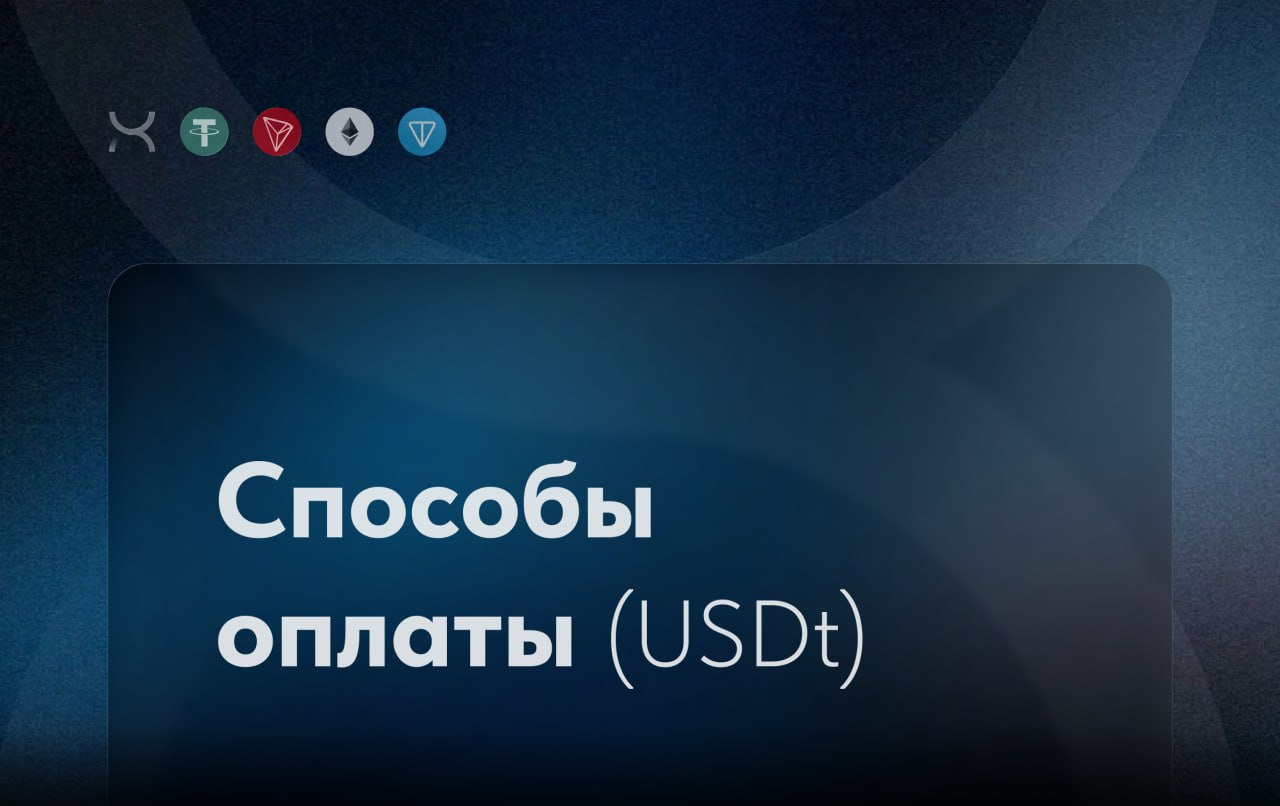
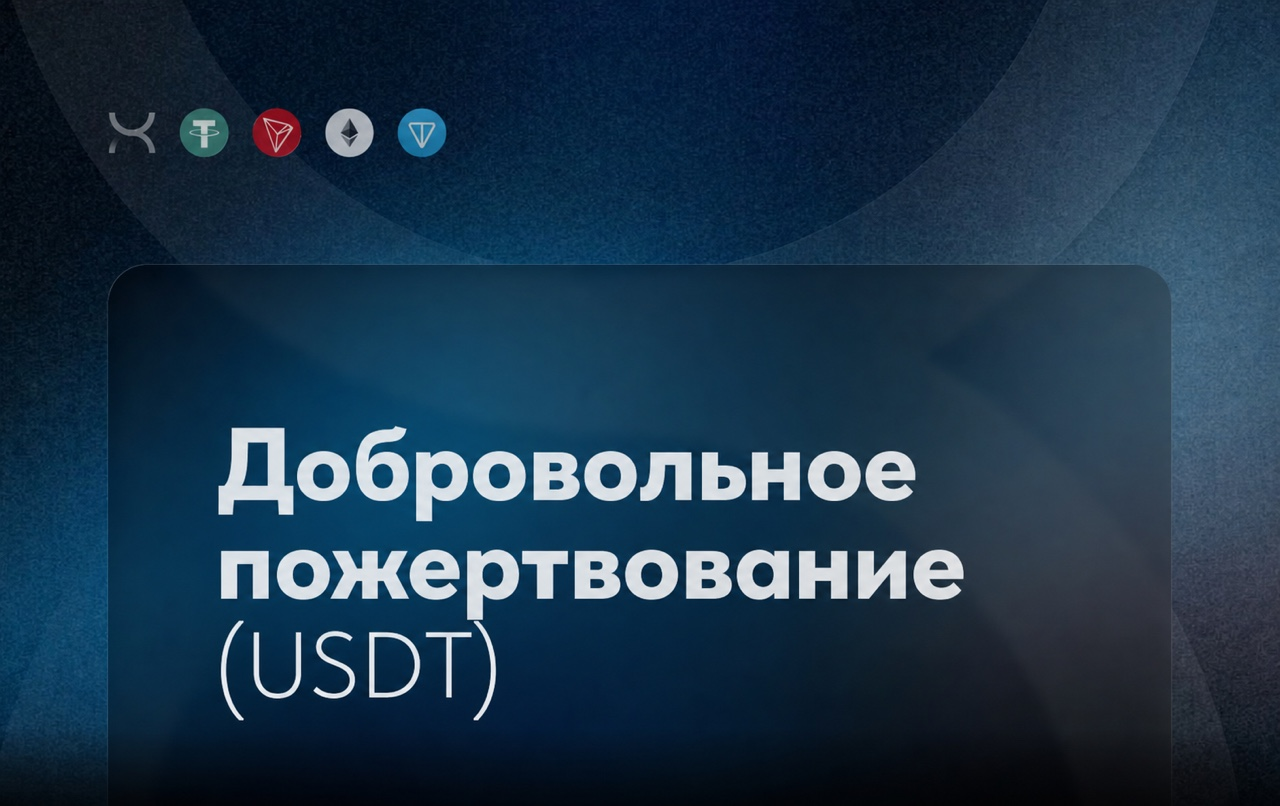
feat: reword old bot payment flow as donations

diff --git a/src/bot.ts b/src/bot.ts
@@ -493,7 +493,10 @@ ${sundayInvite.invite_link}
 
         if (parsed.a === 'reject') {
           try {
-            await ctx.api.sendMessage(targetUserId, '❌ Оплата отклонена. Свяжитесь с поддержкой.')
+            await ctx.api.sendMessage(
+              targetUserId,
+              '❌ Добровольное пожертвование не подтверждено. Свяжитесь с поддержкой.'
+            )
             await ctx.api.editMessageCaption(String(ADMIN_GROUP_ID), message.message_id, {
               caption: `${caption}\n\n❌ Отклонено`,
             })
@@ -569,7 +572,7 @@ ${sundayInvite.invite_link}
     //   return
     // }
 
-    // Обычная навигация + оплата
+    // Обычная навигация + добровольное пожертвование
     if (parsed.a === 'open' && parsed.s) {
       goTo(userId, parsed.s)
       await renderScreen(ctx, userId, parsed.s, parsed.p)
@@ -647,7 +650,7 @@ ${sundayInvite.invite_link}
       }
 
       if (parsed.m === 'mastercard') {
-        // сразу на оплату
+        // сразу к добровольному пожертвованию
         goTo(userId, 'rub_payment')
         await renderScreen(ctx, userId, 'rub_payment', ctx.session.payment)
       } else {
@@ -694,7 +697,7 @@ ${sundayInvite.invite_link}
     if (parsed.a === 'paid') {
       await ctx.editMessageCaption({
         caption:
-          '📸 Отлично! Теперь пришли фото чека (или документ) в этот чат.\nЯ сразу передам админу.',
+          '📸 Отлично! Теперь пришлите подтверждение перевода (фото или документ) в этот чат.\nЯ сразу передам его администратору.',
         reply_markup: new InlineKeyboard().text('Отмена', packCb({ a: 'back' })),
         parse_mode: 'Markdown',
       })
@@ -825,7 +828,7 @@ ${sundayInvite.invite_link}
     }
   })
 
-  // ========== ЧЕК (фото / документ) — ВЫСОКИЙ ПРИОРИТЕТ===========
+  // ========== ПОДТВЕРЖДЕНИЕ ПЕРЕВОДА — ВЫСОКИЙ ПРИОРИТЕТ===========
   bot.on(['message:photo', 'message:document'], async (ctx) => {
     if (ctx.session.waitingForReceipt) {
       ctx.session.waitingForReceipt = false
@@ -900,7 +903,7 @@ ${sundayInvite.invite_link}
         : 'не указано'
       const adminText = `
 
-💰 *НОВАЯ ОПЛАТА*
+💰 *НОВОЕ ДОБРОВОЛЬНОЕ ПОЖЕРТВОВАНИЕ*
 ${productText}
 
 👤 ${profile.fio || 'не указано'}
@@ -909,7 +912,7 @@ ${productText}
 
 ${ctx.session.payment?.product === 'volunteer' ? 'TYPE:VOLUNTEER' : 'TYPE:CONTENT'}
 
-💳 Способ оплаты: ${methodText}
+💳 Способ перевода: ${methodText}
 ${volunteerText}
 
 🕒 ${new Date().toLocaleString('ru-RU')}
@@ -919,7 +922,10 @@ ${volunteerText}
 
       let threadId: number | undefined
       try {
-        const topic = await ctx.api.createForumTopic(ADMIN_GROUP_ID, `Новый заказ — ${username}`)
+        const topic = await ctx.api.createForumTopic(
+          ADMIN_GROUP_ID,
+          `Новое пожертвование — ${username}`
+        )
         threadId = topic.message_thread_id
       } catch (err) {
         console.error('Ошибка создания темы:', err)
@@ -949,19 +955,19 @@ ${volunteerText}
         }
 
         await ctx.reply(
-          '✅ Чек успешно отправлен администратору!\nОжидай подтверждения \nЧтобы вернуться в главное меню - нажми /main',
+          '✅ Подтверждение перевода отправлено администратору!\nОжидайте проверки.\nЧтобы вернуться в главное меню, нажмите /main',
           {
             parse_mode: 'Markdown',
           }
         )
       } catch (err) {
-        console.error('Ошибка отправки чека:', err)
-        await ctx.reply('❌ Не удалось отправить чек.')
+        console.error('Ошибка отправки подтверждения перевода:', err)
+        await ctx.reply('❌ Не удалось отправить подтверждение перевода.')
       }
       return
     }
 
-    // Если не чек — проверяем поддержку
+    // Если это не подтверждение перевода — проверяем поддержку
     if (ctx.session.inSupportMode) {
       let threadId = ctx.session.supportThreadId
       if (!threadId) {
@@ -1018,9 +1024,11 @@ ${volunteerText}
       volunteerId: volunteerTelegramId,
     }
 
-    await ctx.reply(`✅ Волонтёр выбран: ${volunteer.fio || 'Без имени'}\n\nПереходим к оплате...`)
+    await ctx.reply(
+      `✅ Волонтёр выбран: ${volunteer.fio || 'Без имени'}\n\nПереходим к добровольному пожертвованию...`
+    )
 
-    // 👉 переход в оплату
+    // Переход к добровольному пожертвованию
     goTo(ctx.from.id, 'payment')
     await renderScreen(ctx, ctx.from.id, 'payment', undefined, { forceNew: true })
   })

diff --git a/src/screens/payment-detail.ts b/src/screens/payment-detail.ts
@@ -6,25 +6,20 @@ import type { ScreenView } from '../core/render.js'
 
 const PAGES = [
   `1/5\n\n` +
-    `Администрация ХАБа вам очень признательна, если вы сможете оплатить именно криптовалютой, так как эти переводы привлекают меньше внимания банковских работников к нашим системам / помогают избежать проверок и блокировок по 115-ФЗ, а также налоговых издержек.`,
+    `Добровольные пожертвования помогают ХАБу поддерживать цифровые подписки, закрытые чаты и работу сервиса.`,
 
   `2/5\n\n` +
-    `В связи с вышеизложенным уведомляем вас о том, что при переводе в USDT вы сможете значительно сэкономить на покупке подписки.`,
+    `Поддержать проект можно рублёвым переводом или переводом в USDT. Выберите удобный для вас способ.`,
 
   `3/5\n\n` +
-    `Если вы совершаете самостоятельную покупку USDT на любой бирже через P2P (даже с учётом комиссий за перевод), такая покупка выйдет выгоднее.\n\n` +
-    `Пример:\n` +
-    `подписка через ХАБ стоит 40$ + 18% комиссии системы за перевод × 80₽ (или иной курс) = примерно 3280₽`,
+    `При переводе в USDT учитывайте комиссию биржи и выбранной сети. Сумма, которая поступит на кошелёк ХАБа, должна соответствовать рекомендуемому размеру пожертвования.`,
 
   `4/5\n\n` +
-    ` Если вы совершаете самостоятельную покупку USDt на любой бирже через Р2Р то даже с учетом всех комиссий за перевод, такая покупка выйдет выгоднее.
-
-Например:
-подписка через ХАБ стоит 40$ + 1$ (комиссия системы за перевод) х 80₽ (или иная стоимость по актуальному курсу Р2Р рынка за USDt) получаем стоимость в рублях = 3280₽`,
+    `Рекомендуемый размер пожертвования зависит от выбранного продукта. Актуальная сумма будет указана перед переводом.`,
 
   `5/5\n\n` +
-    `Выбирайте удобный способ и пишите админу в случае вопросов.\n` +
-    `Мы всегда на связи и поможем с оплатой максимально выгодно и безопасно.`,
+    `После перевода нажмите «Я отправил(а)» и приложите подтверждение. Администратор проверит поступление и активирует доступ.\n\n` +
+    `Если появятся вопросы, напишите администратору.`,
 ]
 
 const TOTAL_PAGES = PAGES.length
@@ -44,16 +39,16 @@ export function paymentDetailsScreen(userId: number, params?: { page: number }):
 
   kb.row()
 
-  // Кнопка "Назад к оплате" появляется ТОЛЬКО на последней странице
+  // Кнопка возврата появляется только на последней странице
   if (page === TOTAL_PAGES) {
-    kb.text('НАЗАД К ОПЛАТЕ', packCb({ a: 'open', s: 'about_payment' })).row()
+    kb.text('НАЗАД К ПОЖЕРТВОВАНИЮ', packCb({ a: 'open', s: 'about_payment' })).row()
   }
 
   kb.text('НА ГЛАВНУЮ', packCb({ a: 'home' })).icon('5465226866321268133')
 
   return {
     photo: './public/about-payment.png',
-    caption: `*ПОДРОБНОСТИ ОБ ОПЛАТЕ*\n\n${PAGES[page - 1]}\n\n`,
+    caption: `*О ДОБРОВОЛЬНОМ ПОЖЕРТВОВАНИИ*\n\n${PAGES[page - 1]}\n\n`,
     keyboard: kb,
   }
 }

diff --git a/src/screens/legal.ts b/src/screens/legal.ts
@@ -15,12 +15,13 @@ export function legalScreen(userId: number): ScreenView {
     photo: './public/legal.jpg',
     caption:
       `Вся информация в боте носит справочный характер и не является публичной офертой.\n\n` +
-      `ХАБ предоставляет посреднические услуги по доступу к цифровым подпискам и контенту, которые могут быть недоступны напрямую из РФ (в т.ч. из-за ограничений платёжных систем и региональных блокировок).\n\n` +
+      `ХАБ помогает участникам с доступом к цифровым подпискам и контенту, которые могут быть недоступны напрямую из РФ из-за региональных ограничений.\n\n` +
+      `Работа проекта поддерживается добровольными пожертвованиями участников.\n\n` +
       `Мы не являемся официальными партнёрами или дистрибьюторами (ProPresenter, ProContent и др.).\n` +
-      `Вы также осознаёте, что приобретение подписок *«в складчину»* может нарушать лицензионные соглашения.\n` +
+      `Вы также осознаёте, что совместное использование подписок *«в складчину»* может нарушать лицензионные соглашения.\n` +
       `Все действия вы совершаете на свой страх и риск.\n\n` +
       `\n` +
-      `*Оплата услуг означает ваше согласие с условиями и отказ от претензий в случае:*\n\n` +
+      `*Отправляя добровольное пожертвование и используя сервис, вы подтверждаете согласие с условиями и принимаете следующие риски:*\n\n` +
       `• блокировки аккаунта/потока\n` +
       `• изменения условий сервисов\n` +
       `• технических проблем со стороны разработчика\n\n` +

diff --git a/src/screens/others.ts b/src/screens/others.ts
@@ -14,13 +14,13 @@ export function otherScreen(userId: number): ScreenView {
   return {
     photo: './public/others.jpg',
     caption:
-      `Если вам нужна любая другая цифровая подписка или сервис, который недоступен в РФ (например, через прямую оплату из России заблокирован), мы поможем!\n\n` +
-      `Через ХАБ вы можете оплатить:\n` +
+      `Если вам нужна цифровая подписка или сервис, самостоятельное подключение которого недоступно из РФ, мы постараемся помочь!\n\n` +
+      `Через ХАБ можно получить помощь с доступом к:\n` +
       `• Любые премиум-сервисы (программы, облака, библиотеки контента и т.д.)\n` +
       `• Доступ к аккаунтам, потокам, лицензиям\n` +
       `• Всё, что связано с worship, музыкой, видео, софтом для церквей\n\n` +
-      `Просто напишите админу в чат — обсудим детали, стоимость и сроки.\n` +
-      `Мы подберём оптимальный способ оплаты и предоставим доступ на ваш аккаунт.\n\n` +
+      `Напишите администратору в чат — обсудим детали, рекомендуемый размер пожертвования и сроки.\n` +
+      `Мы подберём удобный способ перевода и поможем настроить доступ на вашем аккаунте.\n\n` +
       `Готовы помочь — жмите кнопку ниже!`,
 
     keyboard: kb,

diff --git a/src/screens/payment.ts b/src/screens/payment.ts
@@ -47,7 +47,9 @@ export function paymentScreen(userId: number, params: any, ctx: any): ScreenView
 
   // Цена
   const price = PRODUCT_PRICES[product]
-  const priceText = price ? `Стоимость: *${price} ₽/год*` : 'Стоимость: по договорённости с админом'
+  const donationText = price
+    ? `Рекомендуемая сумма пожертвования: *${price} ₽*`
+    : 'Рекомендуемый размер пожертвования уточните у администратора'
 
   const kb = new InlineKeyboard()
 
@@ -56,7 +58,7 @@ export function paymentScreen(userId: number, params: any, ctx: any): ScreenView
     .icon('5460978422111021593')
     .row()
   kb.row()
-  kb.text('Подробности об оплате', packCb({ a: 'open', s: 'payment_details', p: { page: 1 } }))
+  kb.text('О ПОЖЕРТВОВАНИИ', packCb({ a: 'open', s: 'payment_details', p: { page: 1 } }))
     .icon('5787544344906959608')
     .row()
   kb.row()
@@ -67,11 +69,11 @@ export function paymentScreen(userId: number, params: any, ctx: any): ScreenView
   return {
     photo: './public/payment.png',
     caption:
-      `*${isExtension ? 'ПРОДЛЕНИЕ' : 'ОПЛАТА'} — ${productName.toUpperCase()}*\n\n` +
+      `*ДОБРОВОЛЬНОЕ ПОЖЕРТВОВАНИЕ — ${productName.toUpperCase()}*\n\n` +
       `Вы выбрали: ${productName}${extraInfo}\n` +
-      `${priceText}\n` +
+      `${donationText}\n` +
       `${extensionInfo}\n` +
-      `Вы можете оплатить:\n` +
+      `Поддержать проект можно переводом:\n` +
       `• Рублёвый перевод\n` +
       `• Криптовалютный перевод в USDT (предпочтительнее)\n\n` +
       `Выберите способ ниже:`,

diff --git a/src/services/reminder.service.ts b/src/services/reminder.service.ts
@@ -71,8 +71,8 @@ export async function runReminders(bot: Bot) {
 
         const text =
           daysLeft === 1
-            ? `⚠ *Подписка заканчивается завтра!*\n\n❗ Если не продлить — вы будете удалены из группы.\n\n👉 Продлите сейчас`
-            : `⏳ *Контент для экранов*\n\nОсталось ${daysLeft} дней\n\n👉Чтобы продлить зайдите в /profile`
+            ? `⚠ *Подписка заканчивается завтра!*\n\n❗ Чтобы поддержать проект и продлить доступ, зайдите в /profile`
+            : `⏳ *Контент для экранов*\n\nОсталось ${daysLeft} дней\n\n👉 Чтобы поддержать проект и продлить доступ, зайдите в /profile`
 
         await sendReminder({ bot, user, key, text })
       }
@@ -123,7 +123,7 @@ async function kickUser(bot: Bot, user: any, chatId: number) {
     await bot.api.unbanChatMember(chatId, user.telegramId)
     await bot.api.sendMessage(
       user.telegramId,
-      '❌ Ваша подписка закончилась. Вы были удалены из группы. \n\n👉 Чтобы восстановить доступ, продлите подписку в /profile'
+      '❌ Ваша подписка закончилась. Вы были удалены из группы.\n\n👉 Чтобы поддержать проект и восстановить доступ, зайдите в /profile'
     )
 
     console.log(`🚫 Кикнут пользователь ${user.telegramId}`)

diff --git a/src/screens/rub-payment.ts b/src/screens/rub-payment.ts
@@ -7,7 +7,7 @@ import { PRODUCT_PRICES } from './payment.js'
 export function rubPaymentScreen(userId: number, params?: any): ScreenView {
   const kb = new InlineKeyboard()
 
-  kb.text('Я ОПЛАТИЛ(А)', packCb({ a: 'paid' }))
+  kb.text('Я ОТПРАВИЛ(А)', packCb({ a: 'paid' }))
     .icon('5317013291602553603')
     .row()
 
@@ -51,7 +51,7 @@ export function rubPaymentScreen(userId: number, params?: any): ScreenView {
   if (!params) {
     return {
       photo: './public/methods-rub.jpg',
-      caption: 'Ошибка: данные оплаты не найдены',
+      caption: 'Ошибка: данные перевода не найдены',
       keyboard: new InlineKeyboard().text('Назад', packCb({ a: 'back' })),
     }
   }
@@ -62,12 +62,12 @@ export function rubPaymentScreen(userId: number, params?: any): ScreenView {
   return {
     photo: './public/methods-rub.jpg',
     caption:
-      `*ОПЛАТА — РУБЛИ*\n\n` +
+      `*ДОБРОВОЛЬНОЕ ПОЖЕРТВОВАНИЕ — РУБЛИ*\n\n` +
       `Способ: **${methodText}**\n\n` +
-      `Сумма: **${amount}**\n\n` +
+      `Рекомендуемая сумма: **${amount}**\n\n` +
       `Реквизиты:\n\`\`\`\n${details}\n\`\`\`\n\n` +
       `Получатель: ${config.PAYMENT_RECEIVER_NAME}\n\n` +
-      `После перевода нажмите "Я ОПЛАТИЛ(А)"`,
+      `После перевода нажмите «Я ОТПРАВИЛ(А)»`,
 
     keyboard: kb,
   }

diff --git a/src/screens/about-payment.ts b/src/screens/about-payment.ts
@@ -7,13 +7,13 @@ import type { ScreenView } from '../core/render.js'
 export function aboutPaymentScreen(userId: number): ScreenView {
   const kb = new InlineKeyboard()
 
-  kb.text('ПРИОБРЕСТИ ПОДПИСКУ ', packCb({ a: 'open', s: 'add_subscription' }))
+  kb.text('ВЫБРАТЬ ПОДПИСКУ', packCb({ a: 'open', s: 'add_subscription' }))
     .icon('5310257187786878602')
     .row()
 
   kb.row()
 
-  kb.text('ПОДРОБНЕЕ ОБ ОПЛАТЕ ', packCb({ a: 'open', s: 'payment_details', p: { page: 1 } }))
+  kb.text('ПОДРОБНЕЕ', packCb({ a: 'open', s: 'payment_details', p: { page: 1 } }))
     .icon('5215209935188534658')
 
     .row()
@@ -24,7 +24,7 @@ export function aboutPaymentScreen(userId: number): ScreenView {
   return {
     photo: './public/about-payment.png', // зелёный скрин из твоей папки
     caption:
-      `Вы можете совершить оплату вашей подписки или подписки любого другого продукта ХАБа несколькими способами:\n\n` +
+      `Вы можете поддержать работу ХАБа добровольным пожертвованием одним из способов:\n\n` +
       `• Рублёвый перевод\n` +
       `• Криптовалютный перевод в USDT (предпочтительнее)\n\n` +
       `Выберите способ ниже:`,

diff --git a/src/screens/propresenter.ts b/src/screens/propresenter.ts
@@ -12,7 +12,7 @@ export function propresenterScreen(userId: number): ScreenView {
     .url('ОСТАЛИСЬ ВОПРОСЫ?', 'https://t.me/hubbbhelp_bot')
     .icon('5436113877181941026')
     .row()
-  // kb.text('Оплатить', packCb({ a: 'pay_product', p: 'propresenter' }))
+  // kb.text('Поддержать проект', packCb({ a: 'pay_product', p: 'propresenter' }))
   //   .icon('5318912792428814144')
   //   .row()
   kb.row()
@@ -24,7 +24,7 @@ export function propresenterScreen(userId: number): ScreenView {
       `*ProPresenter*— профессиональная программа для управления слайдами, видео, текстом и worship-контентом в церквях.\n\n` +
       `*Основные возможности описаны на*` +
       `[ сайте разработчика](https://www.renewedvision.com/propresenter)\n\n` +
-      `💰 *Стоимость "в складчину" через ХАБ:40$/год*\n` +
+      `💰 *Рекомендуемое пожертвование через ХАБ: 40$/год*\n` +
       `или от 3750₽/год (в зависимости от курса USDT на P2P)\n\n` +
       `📡 *Доступ через приватный ПОТОК:*\n\n` +
       `➕ *Выберите действие ниже:*`,

diff --git a/src/screens/sunday-screens.ts b/src/screens/sunday-screens.ts
@@ -10,7 +10,7 @@ export function SundayScreensScreen(userId: number): ScreenView {
   kb.text('Чаво по продукту', packCb({ a: 'open', s: 'faq_sunday_screens' }))
     .icon('5436113877181941026')
     .row()
-  kb.text('Оплатить', packCb({ a: 'pay_product', p: 'sunday_screens' }))
+  kb.text('Поддержать проект', packCb({ a: 'pay_product', p: 'sunday_screens' }))
     .icon('5318912792428814144')
     .row()
   kb.row()
@@ -26,7 +26,7 @@ export function SundayScreensScreen(userId: number): ScreenView {
       `• Готовые шаблоны для песен, проповедей и объявлений\n` +
       `• Поддержка различных экранов и программ проекции\n` +
       `• Доступ к библиотеке HD/4K контента без ограничений\n\n` +
-      `Стоимость в ХАБе: *2000 руб/год* (или эквивалент в USDT по курсу).\n` +
+      `Рекомендуемое пожертвование: *2000 руб.* (или эквивалент в USDT по курсу).\n` +
       `Доступ через наш приватный поток — без ограничений и блокировок.\n\n` +
       `Выберите действие ниже:`,
 

diff --git a/src/screens/crypto-payment.ts b/src/screens/crypto-payment.ts
@@ -9,7 +9,7 @@ export function cryptoPaymentScreen(
   params?: { network: string; product?: string }
 ): ScreenView {
   const kb = new InlineKeyboard()
-  kb.text('Я ОПЛАТИЛ(А)', packCb({ a: 'paid' }))
+  kb.text('Я ОТПРАВИЛ(А)', packCb({ a: 'paid' }))
     .icon('5317013291602553603')
     .row()
   kb.row()
@@ -34,11 +34,11 @@ export function cryptoPaymentScreen(
   return {
     photo: './public/payment.png',
     caption:
-      `*ОПЛАТА — КРИПТА (${network.toUpperCase()})*\n\n` +
+      `*ДОБРОВОЛЬНОЕ ПОЖЕРТВОВАНИЕ — КРИПТА (${network.toUpperCase()})*\n\n` +
       `Сеть: **${network.toUpperCase()}**\n` +
-      `Сумма: **${amount}**\n\n` +
+      `Рекомендуемая сумма: **${amount}**\n\n` +
       `Адрес кошелька:\n\`\`\`\n${wallet}\n\`\`\`\n\n` +
-      `После перевода нажмите кнопку *Я ОПЛАТИЛ(А)* и пришлите чек (фото или документ).`,
+      `После перевода нажмите кнопку *Я ОТПРАВИЛ(А)* и пришлите подтверждение (фото или документ).`,
     keyboard: kb,
   }
 }

diff --git a/src/screens/payments-requisites.ts b/src/screens/payments-requisites.ts
@@ -3,10 +3,10 @@ export const REQUISITES = {
   rub: {
     card: '2200 1234 5678 9012\nПолучатель: Виталий К.',
     sbp: '+7 (999) 000-00-00\nПолучатель: Виталий К.',
-    note: 'Переведите сумму по одному из способов. После перевода нажмите "Я ОПЛАТИЛ(А)" и пришлите чек (фото).',
+    note: 'Отправьте пожертвование одним из способов. После перевода нажмите «Я ОТПРАВИЛ(А)» и пришлите подтверждение (фото).',
   },
   crypto: {
     usdt: 'TAbcdef123456789... (TRC20)\nСеть: TON\nМинимальная сумма: 10 USDT',
-    note: 'Переведите сумму в USDT. После перевода пришлите TXID (текст) или скрин. Админ проверит и активирует подписку.',
+    note: 'Отправьте пожертвование в USDT. После перевода пришлите TXID или скриншот. Администратор проверит поступление и активирует подписку.',
   },
 } as const
